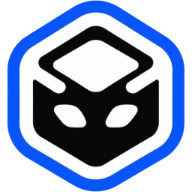
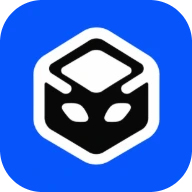
Marca: símbolo no quadrado azul, como o ícone enviado
- Cabeçalho, rodapé, chamada final, 404 e imagem de compartilhamento usam o
  símbolo original (hexágono sobre o quadrado azul, cantos arredondados) no
  lugar da versão com contorno azul
- Endereços dos arquivos em ?v=6 para não reaproveitar o símbolo antigo em cache
- "Contratar agora" no cabeçalho sem espaço duplo

diff --git a/index.html b/index.html
@@ -17,18 +17,18 @@
   <meta property="og:url" content="https://www.weborasites.com.br/">
   <meta property="og:title" content="Webora: sua marca merece um site extraordinário">
   <meta property="og:description" content="Projetos reais no ar e três planos com preço único: Essencial, Loja Online e Sites de 10 Mil Profissionais. Contrate online e pague no Pix.">
-  <meta property="og:image" content="https://www.weborasites.com.br/assets/img/og.jpg?v=5">
+  <meta property="og:image" content="https://www.weborasites.com.br/assets/img/og.jpg?v=6">
   <meta property="og:image:width" content="1200">
   <meta property="og:image:height" content="630">
   <meta property="og:image:alt" content="Webora: sua marca merece um site extraordinário.">
   <meta name="twitter:card" content="summary_large_image">
   <meta name="twitter:title" content="Webora: sua marca merece um site extraordinário">
   <meta name="twitter:description" content="Projetos reais no ar e três planos com preço único. Contrate online e pague no Pix.">
-  <meta name="twitter:image" content="https://www.weborasites.com.br/assets/img/og.jpg?v=5">
+  <meta name="twitter:image" content="https://www.weborasites.com.br/assets/img/og.jpg?v=6">
 
-  <link rel="icon" href="/favicon.ico?v=5" sizes="16x16 32x32 48x48">
-  <link rel="icon" href="/icon.png?v=5" type="image/png" sizes="512x512">
-  <link rel="apple-touch-icon" href="/apple-icon.png?v=5">
+  <link rel="icon" href="/favicon.ico?v=6" sizes="16x16 32x32 48x48">
+  <link rel="icon" href="/icon.png?v=6" type="image/png" sizes="512x512">
+  <link rel="apple-touch-icon" href="/apple-icon.png?v=6">
   <link rel="manifest" href="/site.webmanifest">
 
   <script>document.documentElement.classList.replace('no-js', 'js')</script>
@@ -36,10 +36,10 @@
   <link rel="preconnect" href="https://fonts.gstatic.com" crossorigin>
   <link rel="stylesheet" href="https://fonts.googleapis.com/css2?family=Plus+Jakarta+Sans:wght@400..800&display=swap">
   <link rel="preload" as="image" href="/assets/img/projetos/jesusnewjob.webp" fetchpriority="high">
-  <link rel="stylesheet" href="/assets/css/style.css?v=5">
-  <script src="/assets/js/config.js?v=5" defer></script>
-  <script src="/assets/js/contrato.js?v=5" defer></script>
-  <script src="/assets/js/app.js?v=5" defer></script>
+  <link rel="stylesheet" href="/assets/css/style.css?v=6">
+  <script src="/assets/js/config.js?v=6" defer></script>
+  <script src="/assets/js/contrato.js?v=6" defer></script>
+  <script src="/assets/js/app.js?v=6" defer></script>
 
   <script type="application/ld+json">
   {
@@ -130,8 +130,8 @@
   <header class="header" data-header>
     <div class="container header__bar">
       <a class="brand" href="#topo" aria-label="Webora: voltar ao início">
-        <img class="brand__mark" src="/assets/img/marca/webora-simbolo.webp?v=5" alt="" width="40" height="40">
-        <img class="brand__word" src="/assets/img/marca/webora-logotipo-preto.webp?v=5" alt="" width="118" height="28">
+        <img class="brand__mark" src="/assets/img/marca/webora-simbolo.webp?v=6" alt="" width="40" height="40">
+        <img class="brand__word" src="/assets/img/marca/webora-logotipo-preto.webp?v=6" alt="" width="118" height="28">
       </a>
       <nav class="nav" id="menu" aria-label="Principal">
         <a href="#projetos">Portfólio</a>
@@ -143,7 +143,7 @@
         <a class="nav__wa" data-wa="Olá, Webora! Quero um site profissional." href="https://wa.me/5511959304102" target="_blank" rel="noopener"><svg class="i"><use href="#i-wa"/></svg> WhatsApp (11) 95930-4102</a>
       </nav>
       <div class="header__actions">
-        <a class="btn btn--primary btn--sm header__cta" href="#contratar">Contratar<span class="header__cta-x"> agora</span> <svg class="i i--move"><use href="#i-arrow"/></svg></a>
+        <a class="btn btn--primary btn--sm header__cta" href="#contratar"><span>Contratar<span class="header__cta-x"> agora</span></span> <svg class="i i--move"><use href="#i-arrow"/></svg></a>
         <button class="menu-btn" type="button" data-menu aria-label="Abrir menu" aria-expanded="false" aria-controls="menu"><svg class="i"><use href="#i-menu"/></svg></button>
       </div>
     </div>
@@ -433,7 +433,7 @@
           <div class="panel" data-step="3">
             <h3 class="panel__title" tabindex="-1">Leia e assine o seu contrato</h3>
             <div class="paper">
-              <div class="paper__head"><img src="/assets/img/marca/webora-logotipo-preto.webp?v=5" alt="Webora" width="100" height="24" loading="lazy"><span data-paper-num></span></div>
+              <div class="paper__head"><img src="/assets/img/marca/webora-logotipo-preto.webp?v=6" alt="Webora" width="100" height="24" loading="lazy"><span data-paper-num></span></div>
               <div class="paper__body" data-paper tabindex="0" role="document" aria-label="Texto do contrato"></div>
             </div>
             <div class="sign">
@@ -529,7 +529,7 @@
         </svg>
       </div>
       <div class="container cta__inner" data-reveal>
-        <span class="cta__mark"><img src="/assets/img/marca/webora-simbolo.webp?v=5" alt="" width="72" height="72" loading="lazy"></span>
+        <span class="cta__mark"><img src="/assets/img/marca/webora-simbolo.webp?v=6" alt="" width="72" height="72" loading="lazy"></span>
         <h2 class="title" id="cta-title">Seu próximo cliente está procurando você na internet<span class="dot">.</span></h2>
         <p class="cta__lead">Planos a partir de <b data-preco-min>R$ 599,99</b>, em pagamento único e sem mensalidade da Webora.</p>
         <div class="cta__actions">
@@ -543,7 +543,7 @@
   <footer class="footer t-dark">
     <div class="container footer__top">
       <div class="footer__brand">
-        <a class="brand" href="#topo" aria-label="Webora: voltar ao início"><img class="brand__mark" src="/assets/img/marca/webora-simbolo.webp?v=5" alt="" width="40" height="40" loading="lazy"><img class="brand__word" src="/assets/img/marca/webora-logotipo-branco.webp?v=5" alt="" width="118" height="28" loading="lazy"></a>
+        <a class="brand" href="#topo" aria-label="Webora: voltar ao início"><img class="brand__mark" src="/assets/img/marca/webora-simbolo.webp?v=6" alt="" width="40" height="40" loading="lazy"><img class="brand__word" src="/assets/img/marca/webora-logotipo-branco.webp?v=6" alt="" width="118" height="28" loading="lazy"></a>
         <p>Sites profissionais, lojas online e landing pages premium, com contrato digital e pagamento único no Pix.</p>
       </div>
       <nav class="footer__nav" aria-label="Rodapé">

diff --git a/404.html b/404.html
@@ -6,19 +6,19 @@
   <title>Página não encontrada | Webora</title>
   <meta name="robots" content="noindex">
   <meta name="theme-color" content="#FFFFFF">
-  <link rel="icon" href="/favicon.ico?v=5" sizes="16x16 32x32 48x48">
-  <link rel="apple-touch-icon" href="/apple-icon.png?v=5">
+  <link rel="icon" href="/favicon.ico?v=6" sizes="16x16 32x32 48x48">
+  <link rel="apple-touch-icon" href="/apple-icon.png?v=6">
   <link rel="preconnect" href="https://fonts.googleapis.com">
   <link rel="preconnect" href="https://fonts.gstatic.com" crossorigin>
   <link rel="stylesheet" href="https://fonts.googleapis.com/css2?family=Plus+Jakarta+Sans:wght@400..800&display=swap">
-  <link rel="stylesheet" href="/assets/css/style.css?v=5">
+  <link rel="stylesheet" href="/assets/css/style.css?v=6">
 </head>
 <body class="t-light">
   <main class="notfound">
     <div class="geo geo--side" aria-hidden="true" style="position:fixed">
       <svg viewBox="0 0 400 520" fill="none" preserveAspectRatio="xMaxYMin meet"><path class="geo__a" d="M330 40 520 150v220L330 480 140 370V150Z"/><path class="geo__c" d="M400-70 486-20v100L400 130l-86-50V-20Z"/><path class="geo__line" d="M300 10 510 131v242L300 494 90 373V131Z"/></svg>
     </div>
-    <a class="brand" href="/" aria-label="Webora: página inicial"><img class="brand__mark" src="/assets/img/marca/webora-simbolo.webp?v=5" alt="" width="40" height="40"><img class="brand__word" src="/assets/img/marca/webora-logotipo-preto.webp?v=5" alt="" width="118" height="28"></a>
+    <a class="brand" href="/" aria-label="Webora: página inicial"><img class="brand__mark" src="/assets/img/marca/webora-simbolo.webp?v=6" alt="" width="40" height="40"><img class="brand__word" src="/assets/img/marca/webora-logotipo-preto.webp?v=6" alt="" width="118" height="28"></a>
     <p class="eyebrow">Erro 404</p>
     <h1 class="title">Esta página <span class="hl">não existe</span><span class="dot">.</span></h1>
     <p class="lead">O endereço pode ter mudado. Volte para o início e veja os projetos, os planos e a contratação online.</p>

diff --git a/assets/css/style.css b/assets/css/style.css
@@ -624,7 +624,7 @@ b, strong { font-weight: 700; }
 .geo--cta { inset: 0; }
 .cta__inner { position: relative; display: grid; justify-items: center; gap: 24px; text-align: center; }
 .cta__mark { width: 92px; height: 92px; display: grid; place-items: center; border-radius: 26px; background: #fff; box-shadow: 0 24px 50px -20px rgba(8, 8, 8, .45); }
-.cta__mark img { width: 62px; height: 62px; }
+.cta__mark img { width: 80px; height: 80px; }
 .cta .title { max-width: 17ch; font-size: clamp(34px, 5.4vw, 68px); }
 .cta__lead { max-width: 560px; color: var(--muted); font-size: clamp(16px, 1.4vw, 19px); }
 .cta__lead b { color: #fff; }

diff --git a/assets/js/app.js b/assets/js/app.js
@@ -280,7 +280,7 @@
     return libsP;
   }
   let logoP = null;
-  const loadLogo = () => logoP || (logoP = fetch('/assets/img/marca/webora-logotipo.png?v=5')
+  const loadLogo = () => logoP || (logoP = fetch('/assets/img/marca/webora-logotipo.png?v=6')
     .then(r => (r.ok ? r.blob() : Promise.reject(new Error('logo'))))
     .then(b => new Promise((res, rej) => { const fr = new FileReader(); fr.onload = () => res(fr.result); fr.onerror = rej; fr.readAsDataURL(b); }))
     .then(async data => { const img = new Image(); img.src = data; await img.decode(); return { data, ratio: img.naturalWidth / img.naturalHeight }; })

diff --git a/README.md b/README.md
@@ -38,7 +38,7 @@ assets/js/config.js        dados da Webora, dos planos e dos projetos (edite aqu
 assets/js/contrato.js      contrato, valores, validação, Pix e PDF (navegador e servidor)
 assets/js/app.js           página, vitrine, planos, comparação e assistente de contratação
 api/contrato.js            conferência do contrato no servidor (Vercel Function)
-assets/img/marca/          símbolo (hexágono com contorno azul) e logotipo (azul+preto e azul+branco)
+assets/img/marca/          símbolo (quadrado azul com o hexágono) e logotipo (azul+preto e azul+branco)
 favicon.ico, icon*.png     ícones da aba, do app e do iPhone (apple-icon.png)
 marca/                     imagens originais da marca enviadas pela Webora (não vão para o site)
 scripts/                   servidor local, gerador da marca e modelo da imagem de compartilhamento
@@ -67,6 +67,6 @@ npm run marca   # regenera logotipo, favicons e assets/img/og.jpg a partir de ma
 
 - Domínio canônico: `https://www.weborasites.com.br/` (o endereço sem `www` redireciona para ele). O endereço `webora-planos.vercel.app` redireciona para o domínio.
 - `sitemap.xml`, `robots.txt`, Open Graph, Twitter/X Cards e dados estruturados (Organization, WebSite e Service com as ofertas).
-- As imagens ficam 7 dias em cache no navegador (`vercel.json`). Ao trocar uma imagem, salve com outro nome ou aumente o número de versão (`?v=5`) no endereço.
+- As imagens ficam 7 dias em cache no navegador (`vercel.json`). Ao trocar uma imagem, salve com outro nome ou aumente o número de versão (`?v=6`) no endereço.
 
 Publicação: cada `git push` na branch `main` atualiza o site na Vercel.
